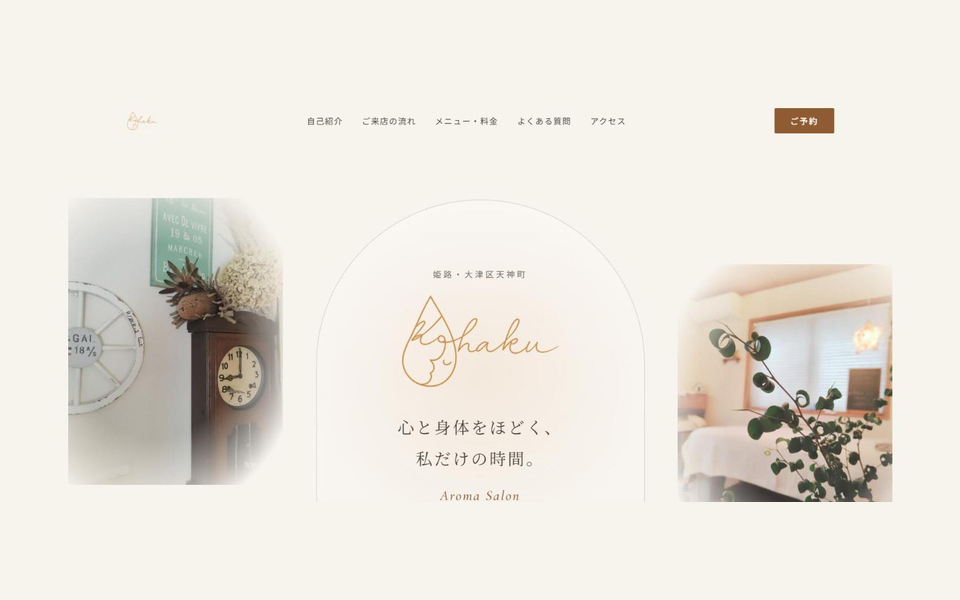
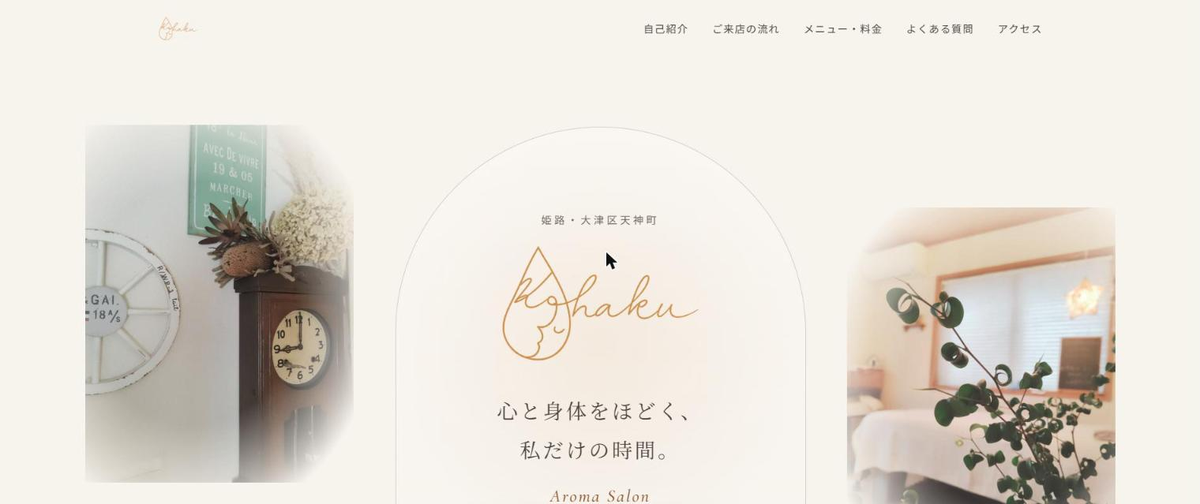
ai-consult-lp: 琥珀サイトの画面を現在の表示で撮り直し

diff --git a/ai-consult-lp/index.html b/ai-consult-lp/index.html
@@ -175,7 +175,7 @@
 
         <article class="case-feature">
           <div class="case-media">
-            <img src="assets/work-kohaku.png" width="960" height="600" loading="lazy" alt="アロマサロン琥珀の公式サイトのトップ画面。ロゴと店内の写真、ご予約ボタン">
+            <img src="assets/work-kohaku.png" width="1200" height="504" loading="lazy" alt="アロマサロン琥珀の公式サイトのトップ画面。ロゴと店内の写真、ご予約ボタン">
           </div>
           <div class="case-body">
             <p class="case-tag">CASE 01 ／ ホームページ・予約・LINE</p>
